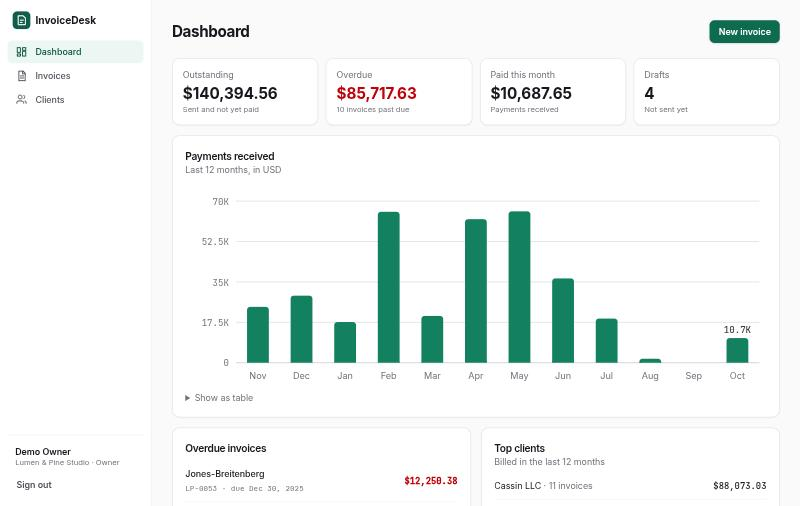
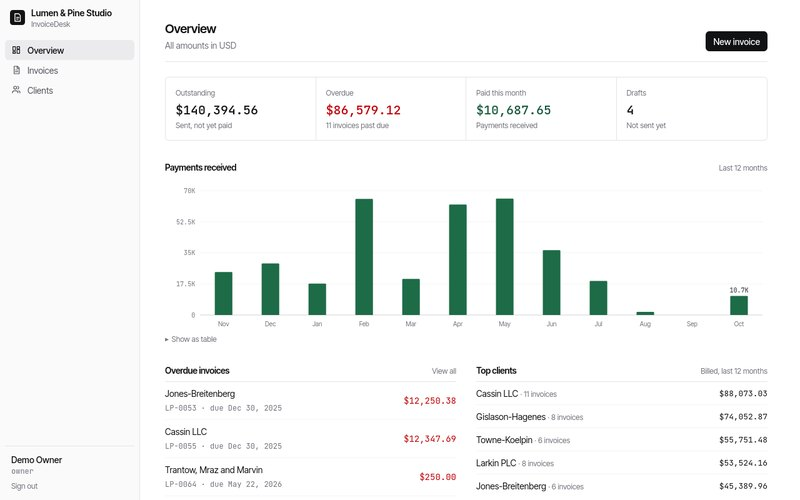
New InvoiceDesk screenshot, test count

diff --git a/content.js b/content.js
@@ -61,13 +61,13 @@ window.SITE = {
         summary: "Facturación con PDF, envío por correo y pagos con tarjeta.",
         problem: "Un freelancer factura en Excel, manda los PDF a mano y no sabe con certeza quién le debe.",
         build:   "API en Laravel 13 y app en Vue 3 con TypeScript: facturas con PDF, envío por correo en cola y pago con tarjeta por Stripe Checkout.",
-        result:  "Cada empresa ve solo sus datos, un pago no se registra dos veces aunque Stripe reenvíe el aviso, y 55 tests lo respaldan.",
+        result:  "Cada empresa ve solo sus datos, un pago no se registra dos veces aunque Stripe reenvíe el aviso, y 56 tests lo respaldan.",
       },
       en: {
         summary: "Invoicing with PDF, email delivery and card payments.",
         problem: "A freelancer invoices from a spreadsheet, emails PDFs by hand and is never quite sure who still owes them.",
         build:   "Laravel 13 API and Vue 3 + TypeScript app: PDF invoices, queued email delivery and card payments through Stripe Checkout.",
-        result:  "Each company only sees its own data, a payment is never recorded twice even if Stripe resends the webhook, and 55 tests back it up.",
+        result:  "Each company only sees its own data, a payment is never recorded twice even if Stripe resends the webhook, and 56 tests back it up.",
       },
     },
     {
